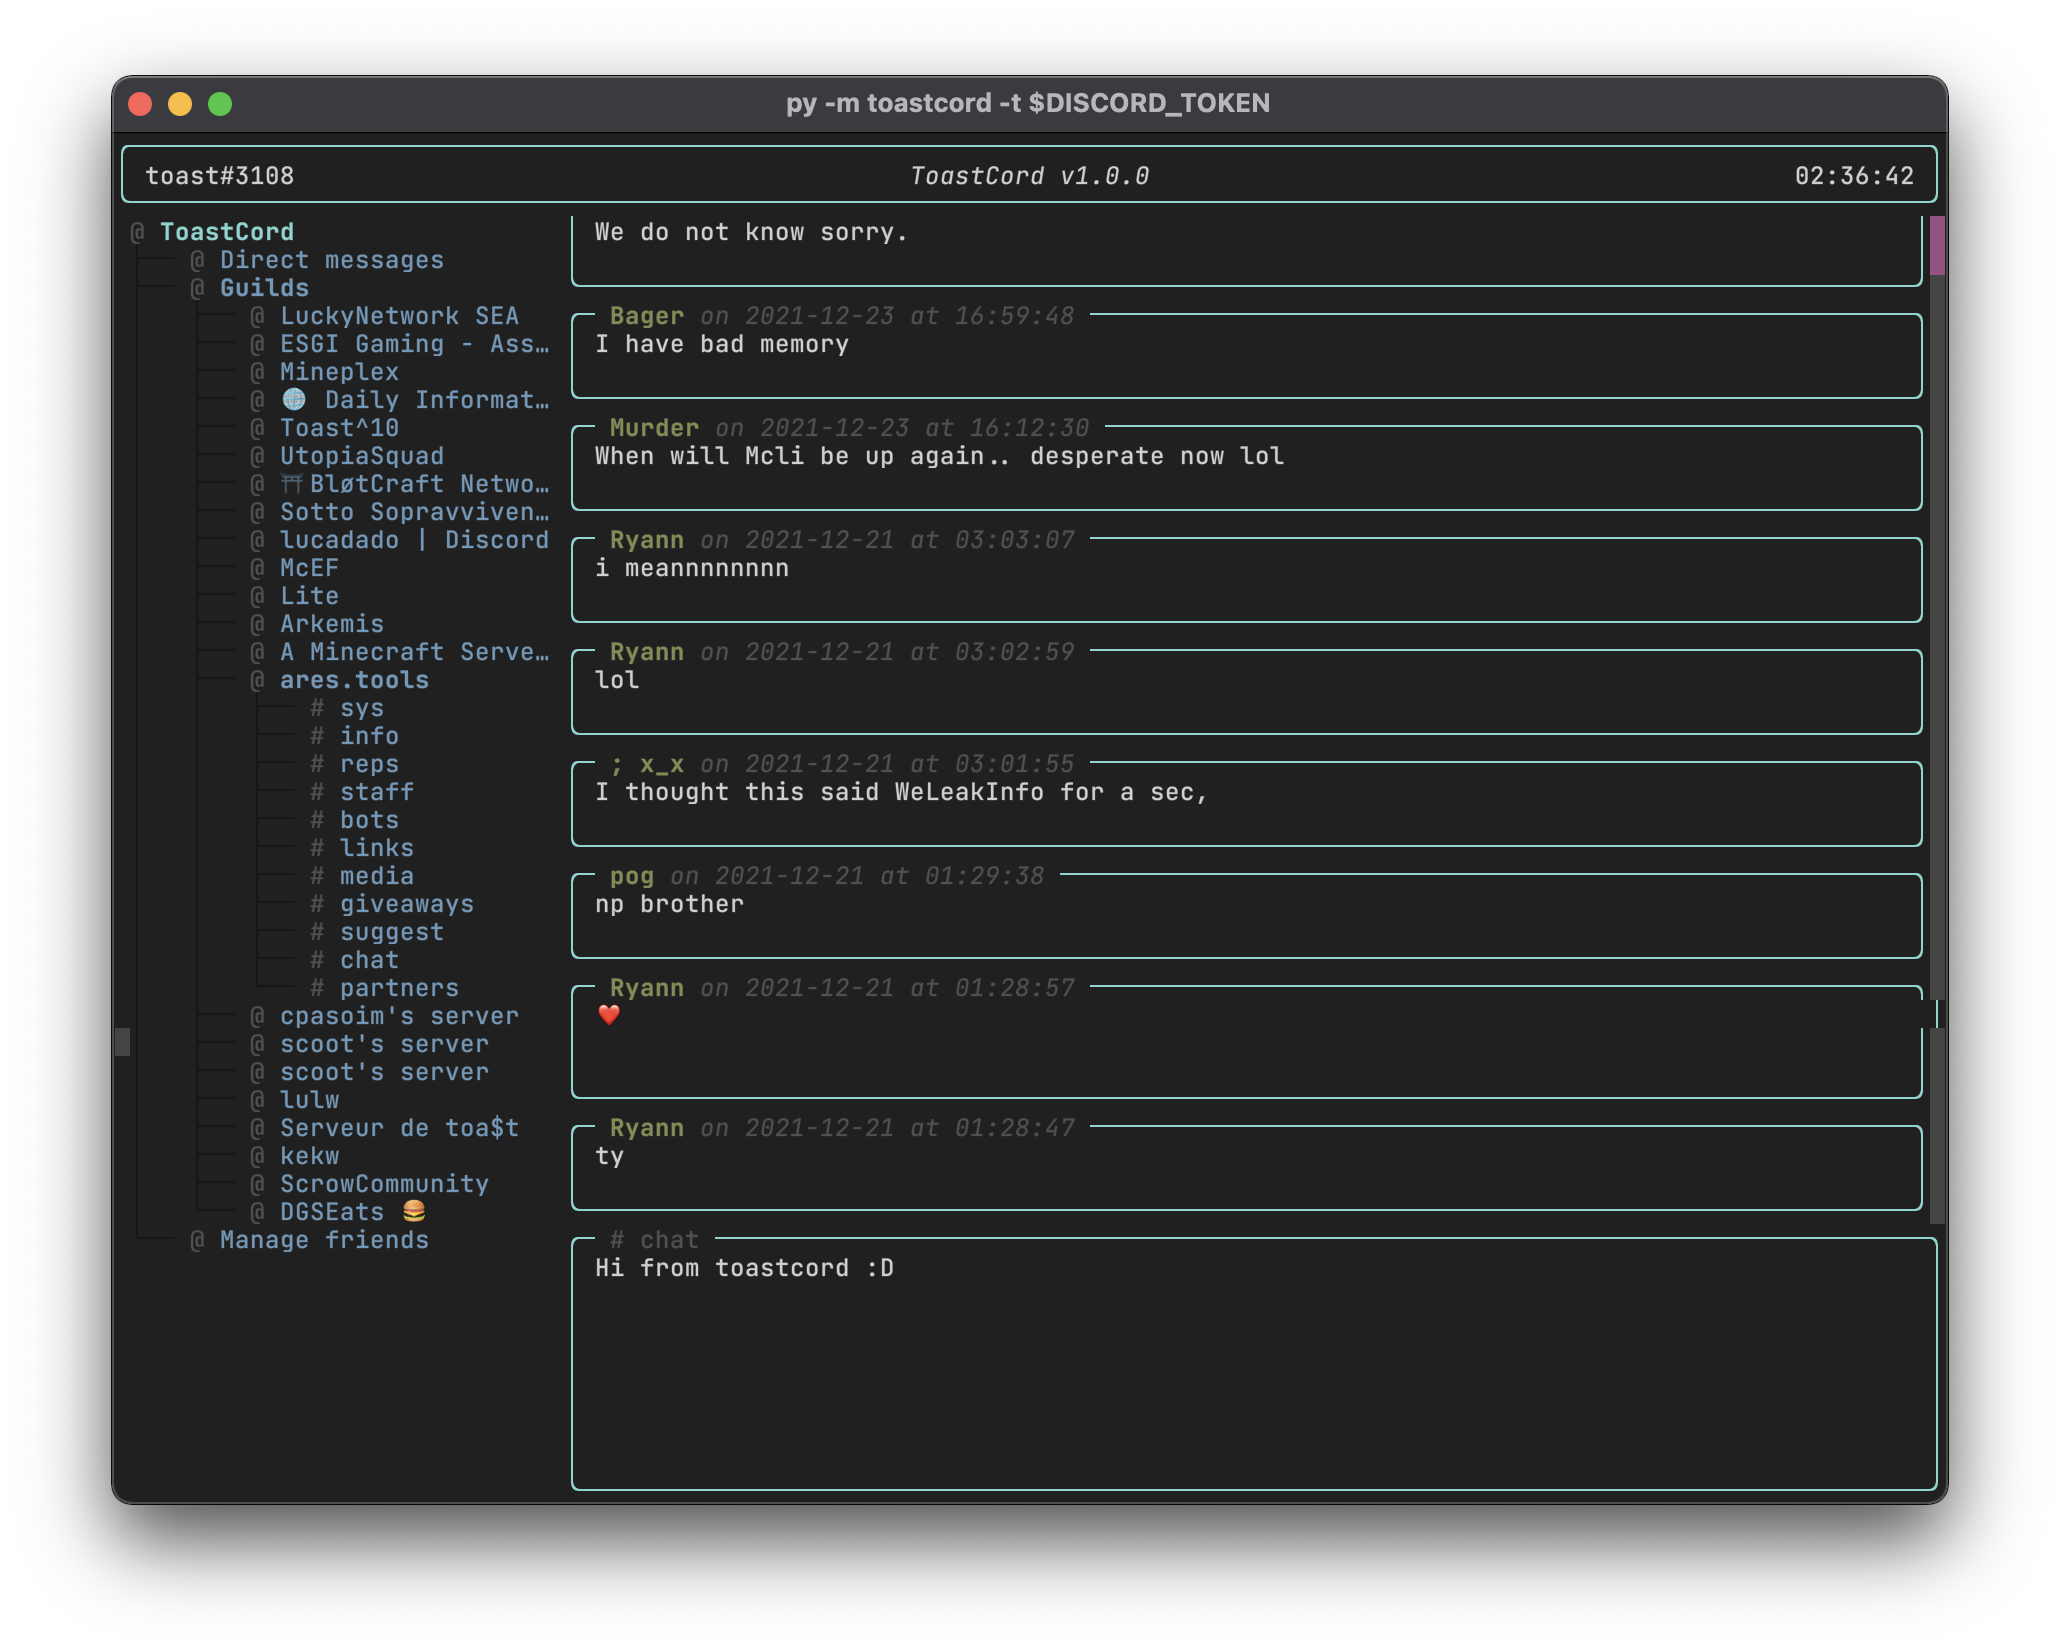
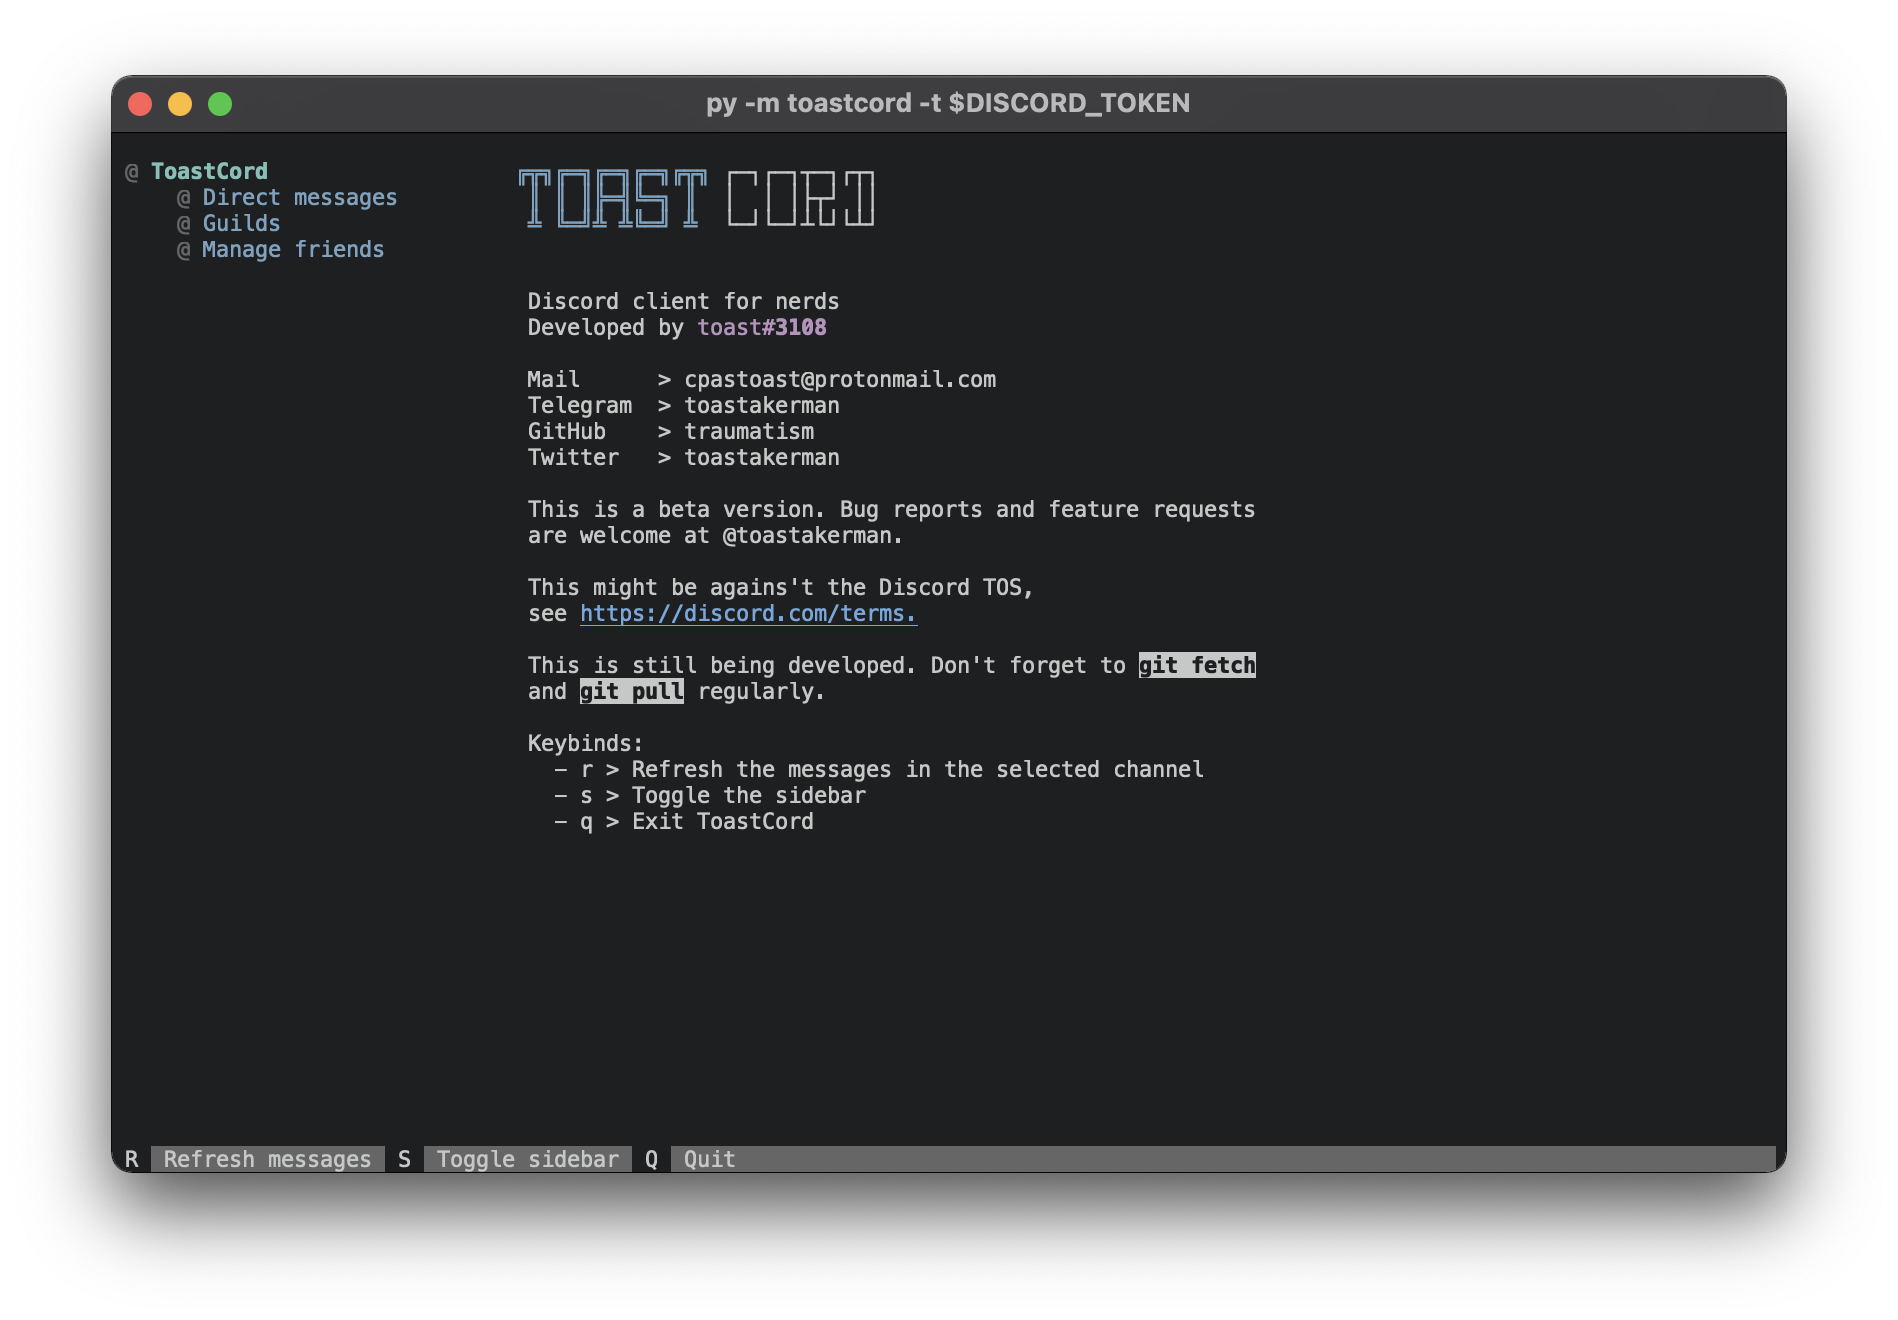
Update

Changed region(s): [[0.0311, 0.0311, 0.9636, 0.9629], [0.2798, 0.7455, 0.4352, 0.7765]]

diff --git a/toastcord/widgets/main.py b/toastcord/widgets/main.py
@@ -3,10 +3,10 @@ from textual.widgets import ScrollView
 
 from toastcord import WELCOME_SCREEN
 from toastcord.api.types.toasty.message import ToastyMessage
-
 from toastcord.utils.panel import get_panel
 
 from toastcord.widgets.input import Input
+from toastcord.widgets.footer import Footer
 from toastcord.widgets.sidebar import Sidebar
 from toastcord.widgets.messagesbox import MessagesBox
 
@@ -31,6 +31,10 @@ class MainWindow(App):
         # Box where the user can type
         self.input = Input()
 
+        self.footer = Footer()
+
+        await self.view.dock(self.footer, edge="bottom")
+
         await self.view.dock(
             self.sidebar, edge="left", size=30, name="sidebar"
         )
@@ -38,9 +42,9 @@ class MainWindow(App):
         await self.view.dock(self.input, edge="bottom", size=10)
         await self.view.dock(self.body, edge="top")
 
-        await self.bind("r", "update_messages")
-        await self.bind("s", "toggle_sidebar")
-        await self.bind("q", "quit")
+        await self.bind("r", "update_messages", "Refresh messages")
+        await self.bind("s", "toggle_sidebar", "Toggle sidebar")
+        await self.bind("q", "quit", "Quit")
 
     async def on_message(self, message) -> None:
         """ Handle messages """

diff --git a/toastcord/widgets/footer.py b/toastcord/widgets/footer.py
@@ -1,0 +1,35 @@
+from textual.widgets import Footer
+from rich.text import Text
+
+
+class Footer(Footer):
+
+    def make_key_text(self) -> Text:
+        """Create text containing all the keys."""
+        text = Text(
+            style="white on bright_black",
+            no_wrap=True,
+            overflow="ellipsis",
+            justify="left",
+            end="",
+        )
+        for binding in self.app.bindings.shown_keys:
+            key_display = (
+                binding.key.upper()
+                if binding.key_display is None
+                else binding.key_display
+            )
+            hovered = self.highlight_key == binding.key
+            key_text = Text.assemble(
+                (
+                    f" {key_display} ",
+                    "reverse" if hovered else "default on default"
+                ),
+                f" {binding.description} ",
+                meta={
+                    "@click": f"app.press('{binding.key}')",
+                    "key": binding.key
+                },
+            )
+            text.append_text(key_text)
+        return text

diff --git a/toastcord/api/http.py b/toastcord/api/http.py
@@ -6,6 +6,7 @@ from typing import Dict
 import toastcord
 
 
+
 HEADERS = {
     "Authorization": toastcord.TOKEN,
     "User-Agent": toastcord.USER_AGENT
@@ -71,3 +72,4 @@ class AsyncHTTPClient:
                 data=data
             ) as response:
                 return await response.json()
+

diff --git a/toastcord/__init__.py b/toastcord/__init__.py
@@ -18,7 +18,7 @@ http_options = parser.add_argument_group("HTTP Options")
 
 http_options.add_argument(
     "--user-agent",
-    default=f"toastcord/{VERSION}",
+    default=f"toastcord_love_discord_t0s/{VERSION}",
     help="User-Agent header",
     dest="user_agent",
     metavar="<value>"
